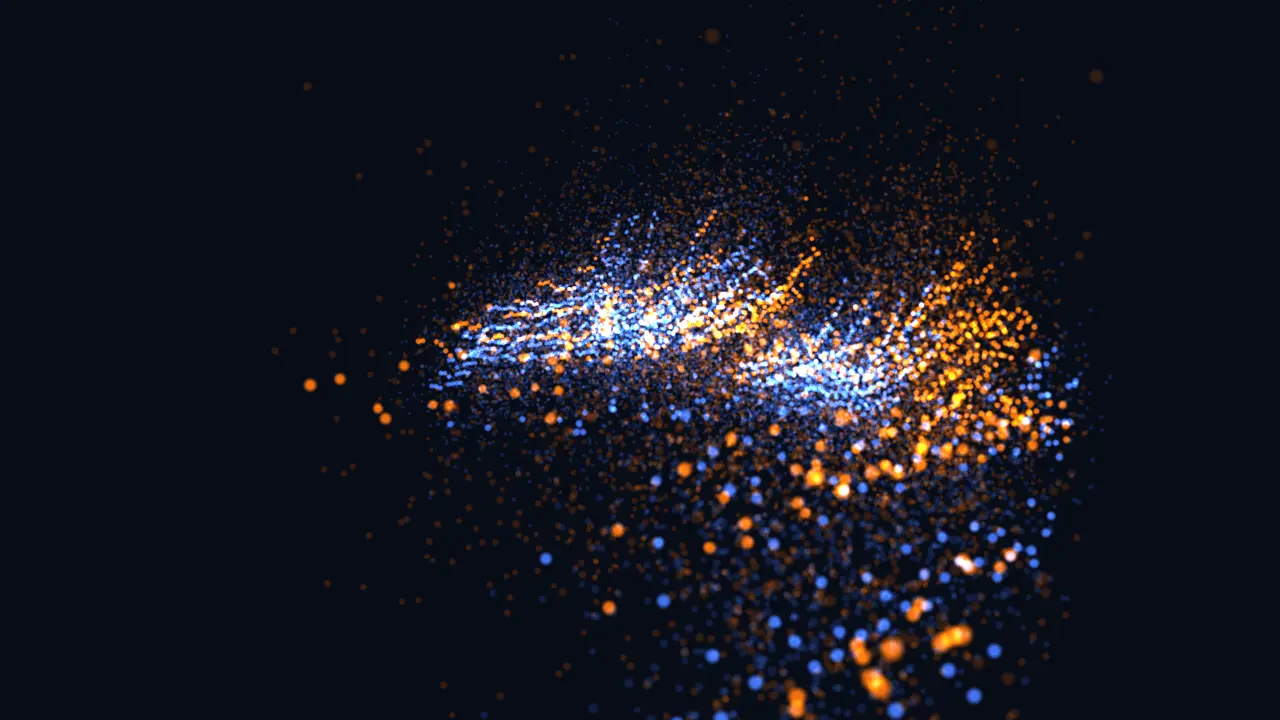
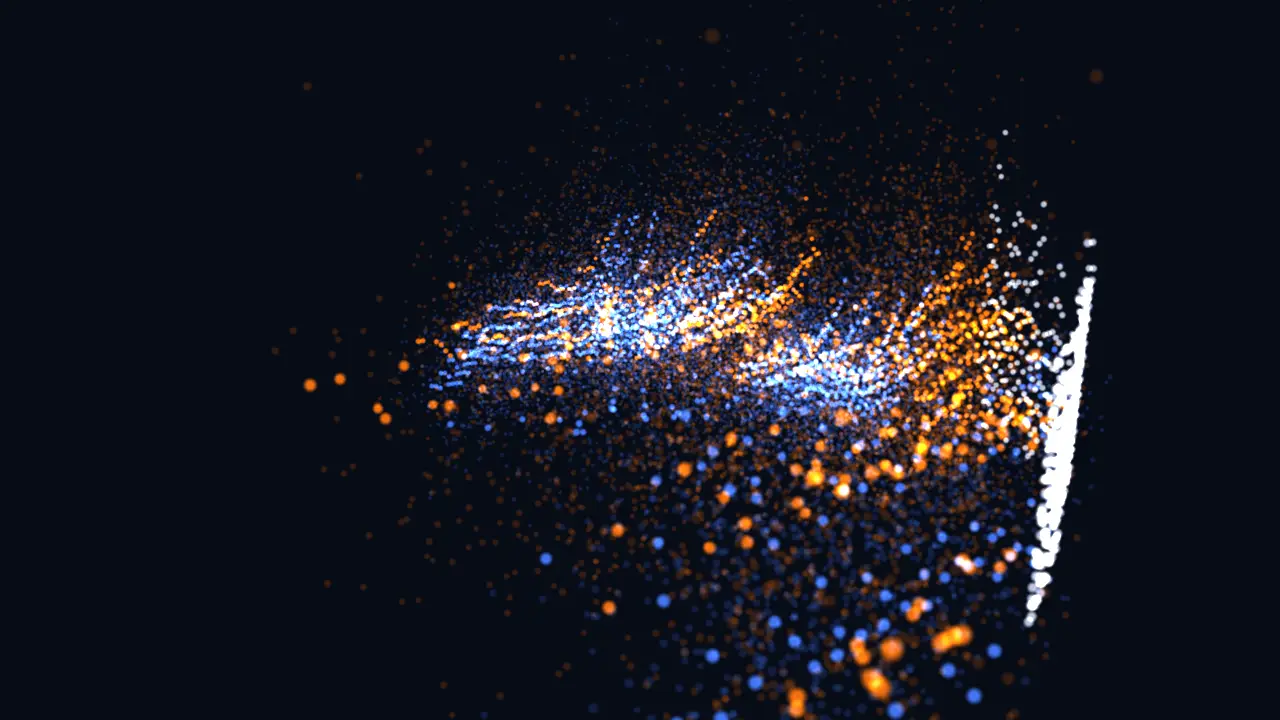
feat: explain the interval band in chapter 3-5 and recapture fallbacks

Changed region(s): [[0.75, 0.3056, 0.875, 0.8861], [0.75, 0.275, 0.7812, 0.3056]]

diff --git a/src/components/sections/CaseStudy.tsx b/src/components/sections/CaseStudy.tsx
@@ -11,7 +11,7 @@ const CHAPTERS: { id: CodeChapter; gate: string; paras: number }[] = [
   { id: 'insight', gate: 'GATE 02 — INSIGHT', paras: 2 },
   { id: 'bubble', gate: 'GATE 03 — R² BUBBLE', paras: 3 },
   { id: 'validation', gate: 'GATE 04 — VALIDATION', paras: 2 },
-  { id: 'interval', gate: 'GATE 05 — INTERVAL', paras: 2 },
+  { id: 'interval', gate: 'GATE 05 — INTERVAL', paras: 3 },
   { id: 'limits', gate: 'GATE 06 — LIMITS', paras: 3 },
 ];
 
